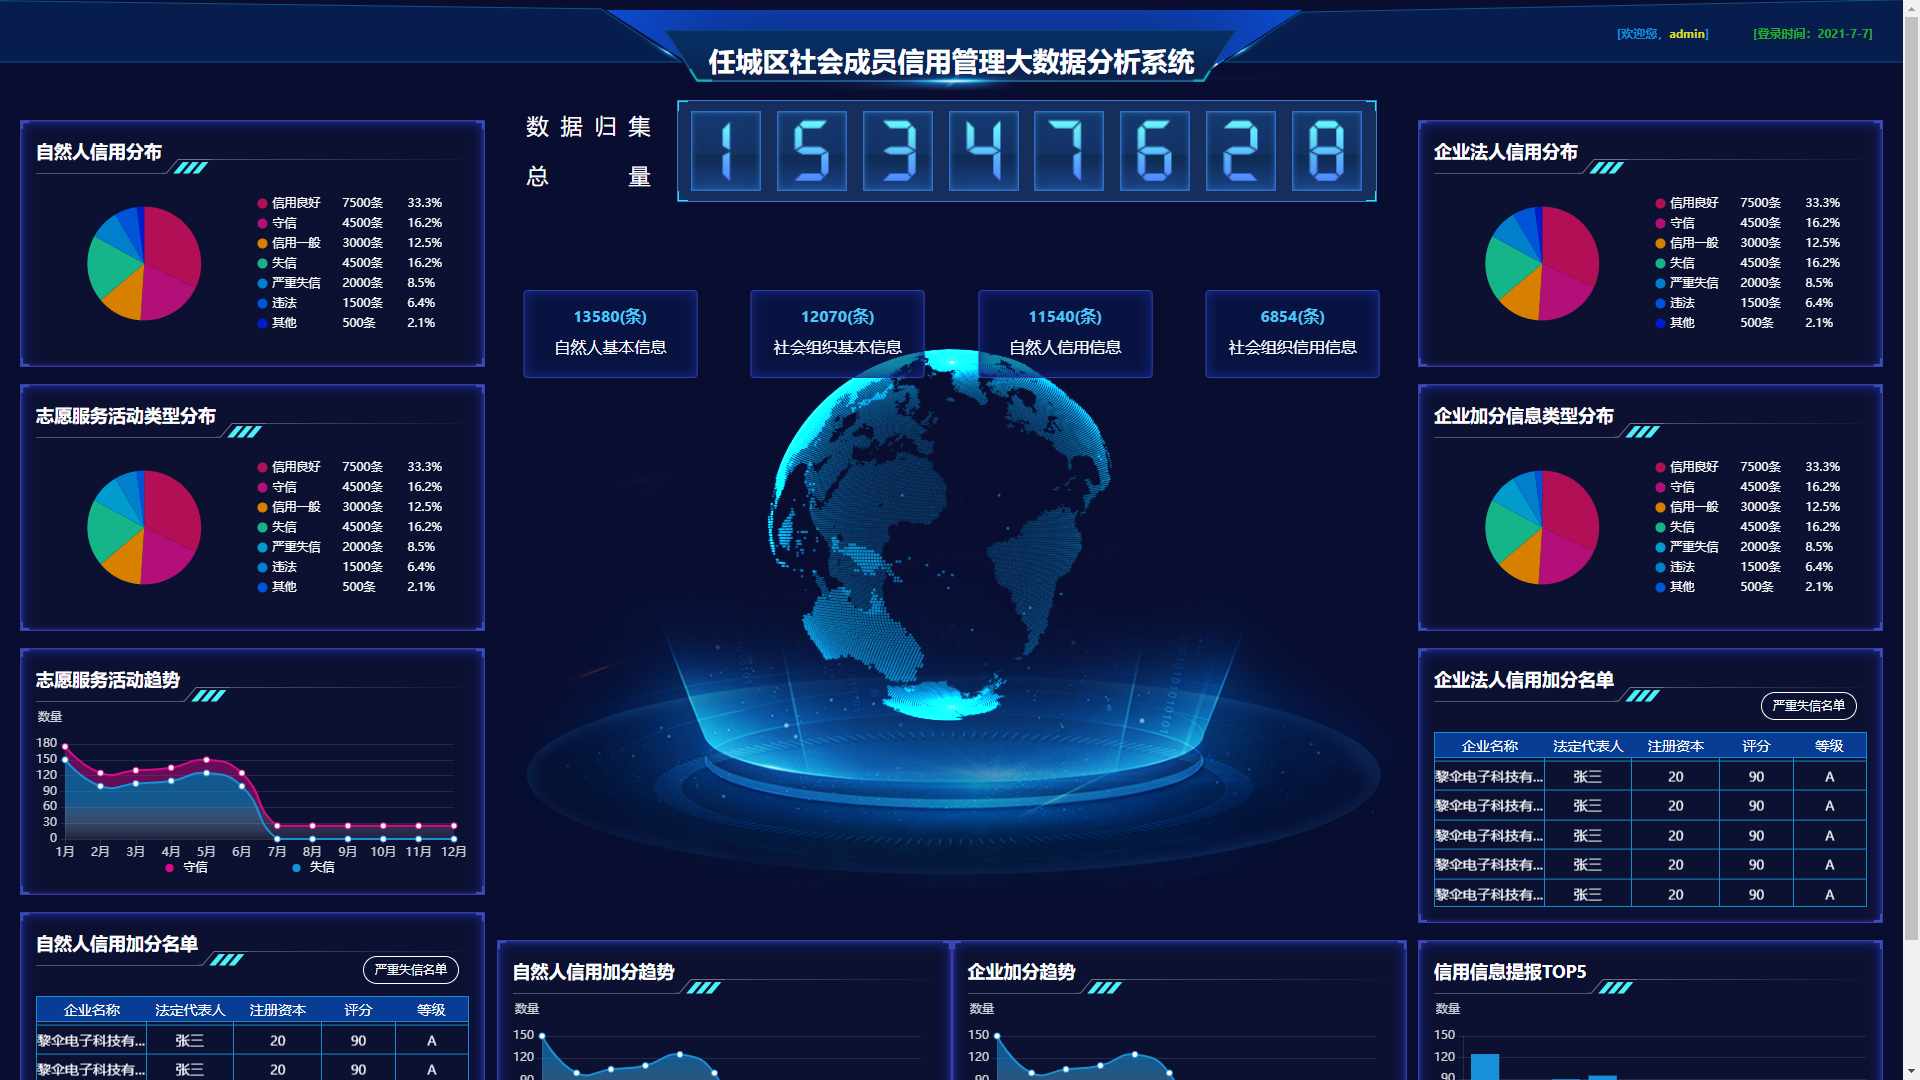
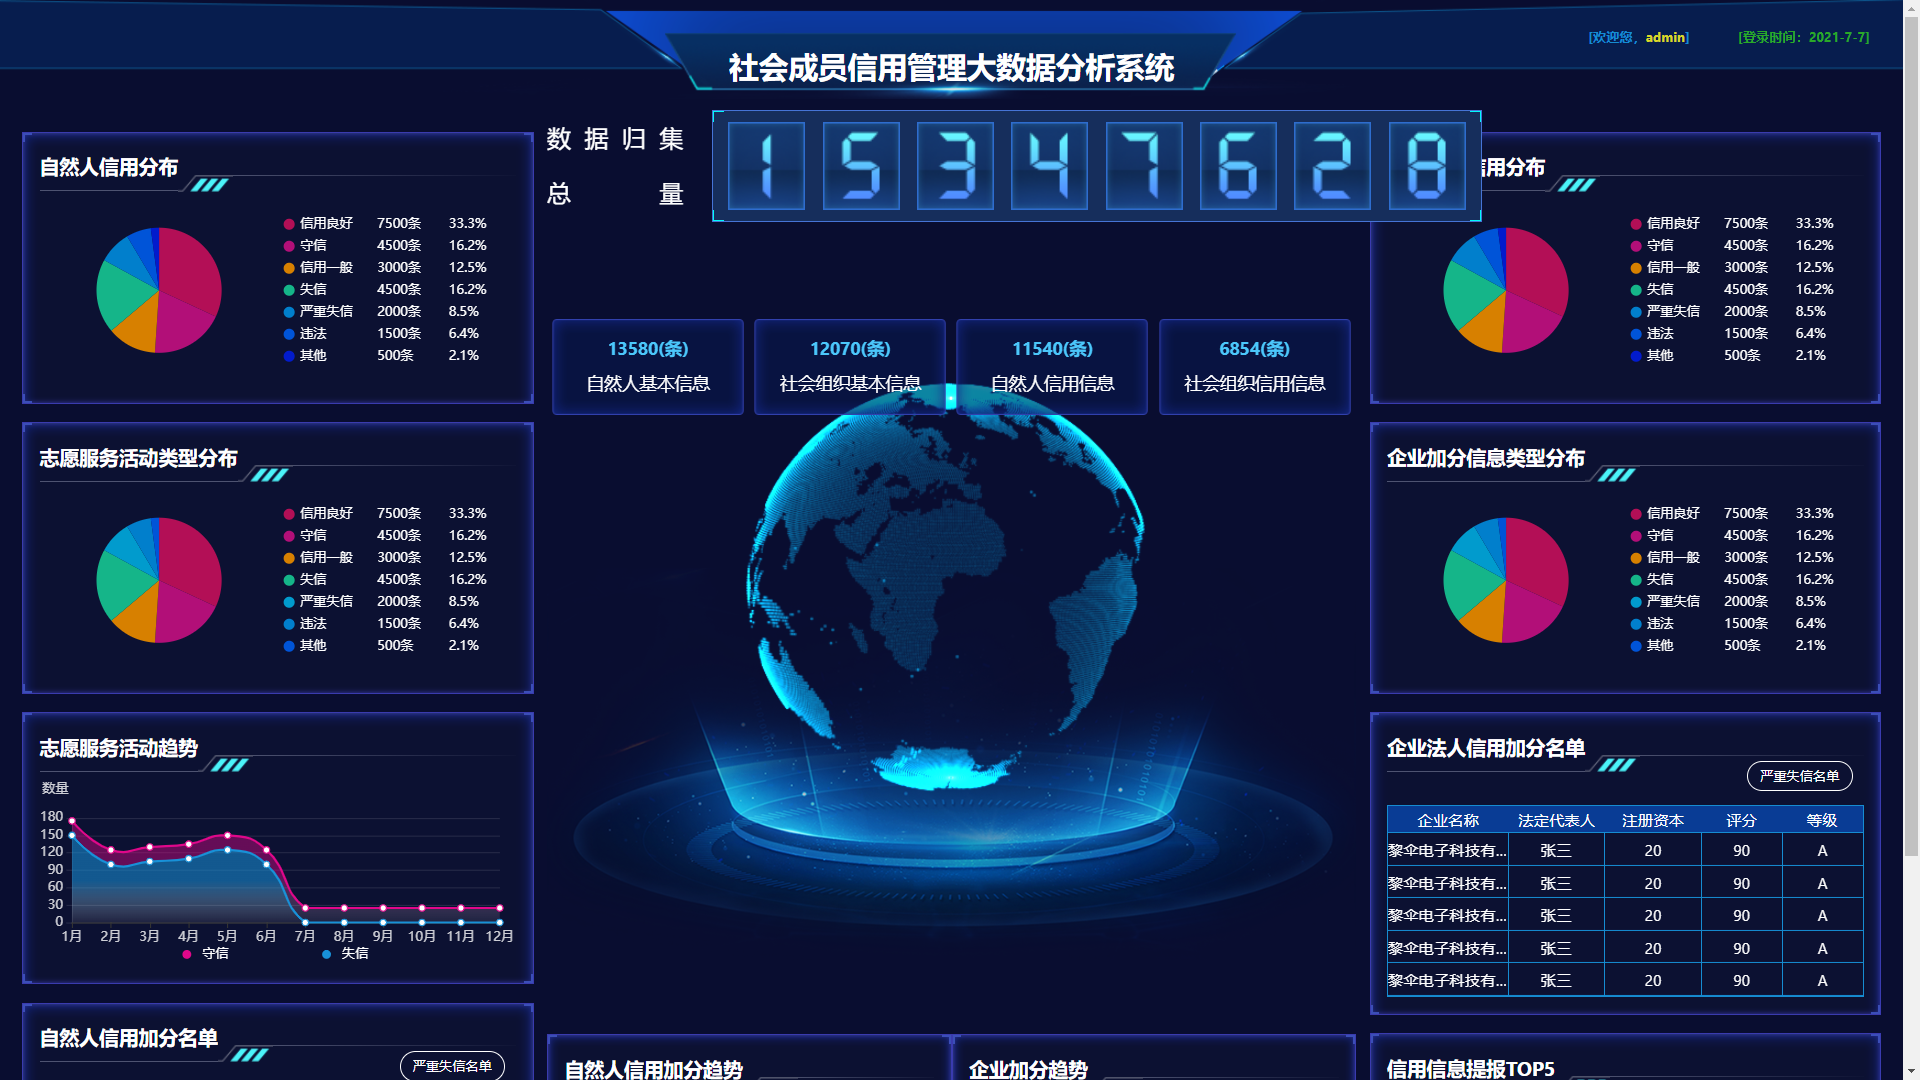
项目截图更新及去除关键字

diff --git a/bigData05/pages/index.html b/bigData05/pages/index.html
@@ -24,7 +24,7 @@
   <div class="page-container" flex="dir:column">
     <!-- 页面头部-->
     <div class="page-title">
-      <span class="text-gradient">任城区社会成员信用管理大数据分析系统</span>
+      <span class="text-gradient">社会成员信用管理大数据分析系统</span>
       <div class="user-bar">
         <div class="user-info">[欢迎您，<span>{{userName}}</span>]</div>
         <div class="login-time">[登录时间：{{loginTime}}]</div>

diff --git a/ncloud-ui/src/router/index.js b/ncloud-ui/src/router/index.js
@@ -24,7 +24,7 @@ const router = new VueRouter({
 /*    {
       path: '/test',
       component: () => import('../pages/test.vue'),
-    },*/
+    }, */
     {
       path: '/home',
       component: Home,
